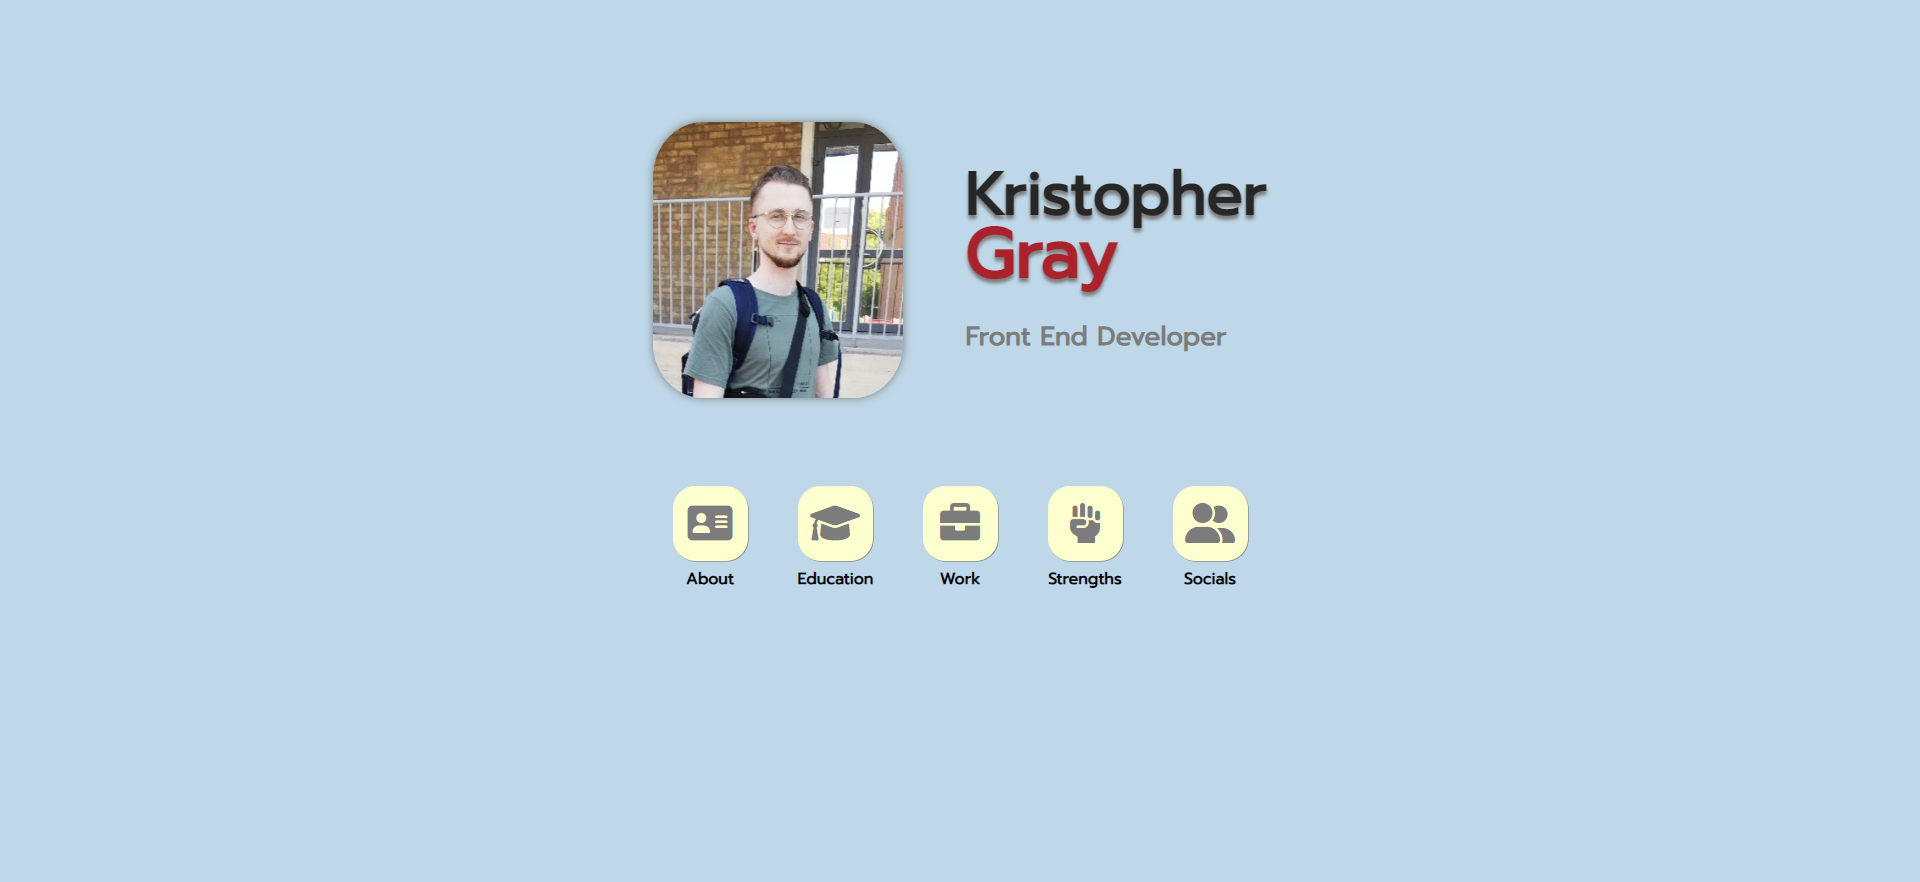
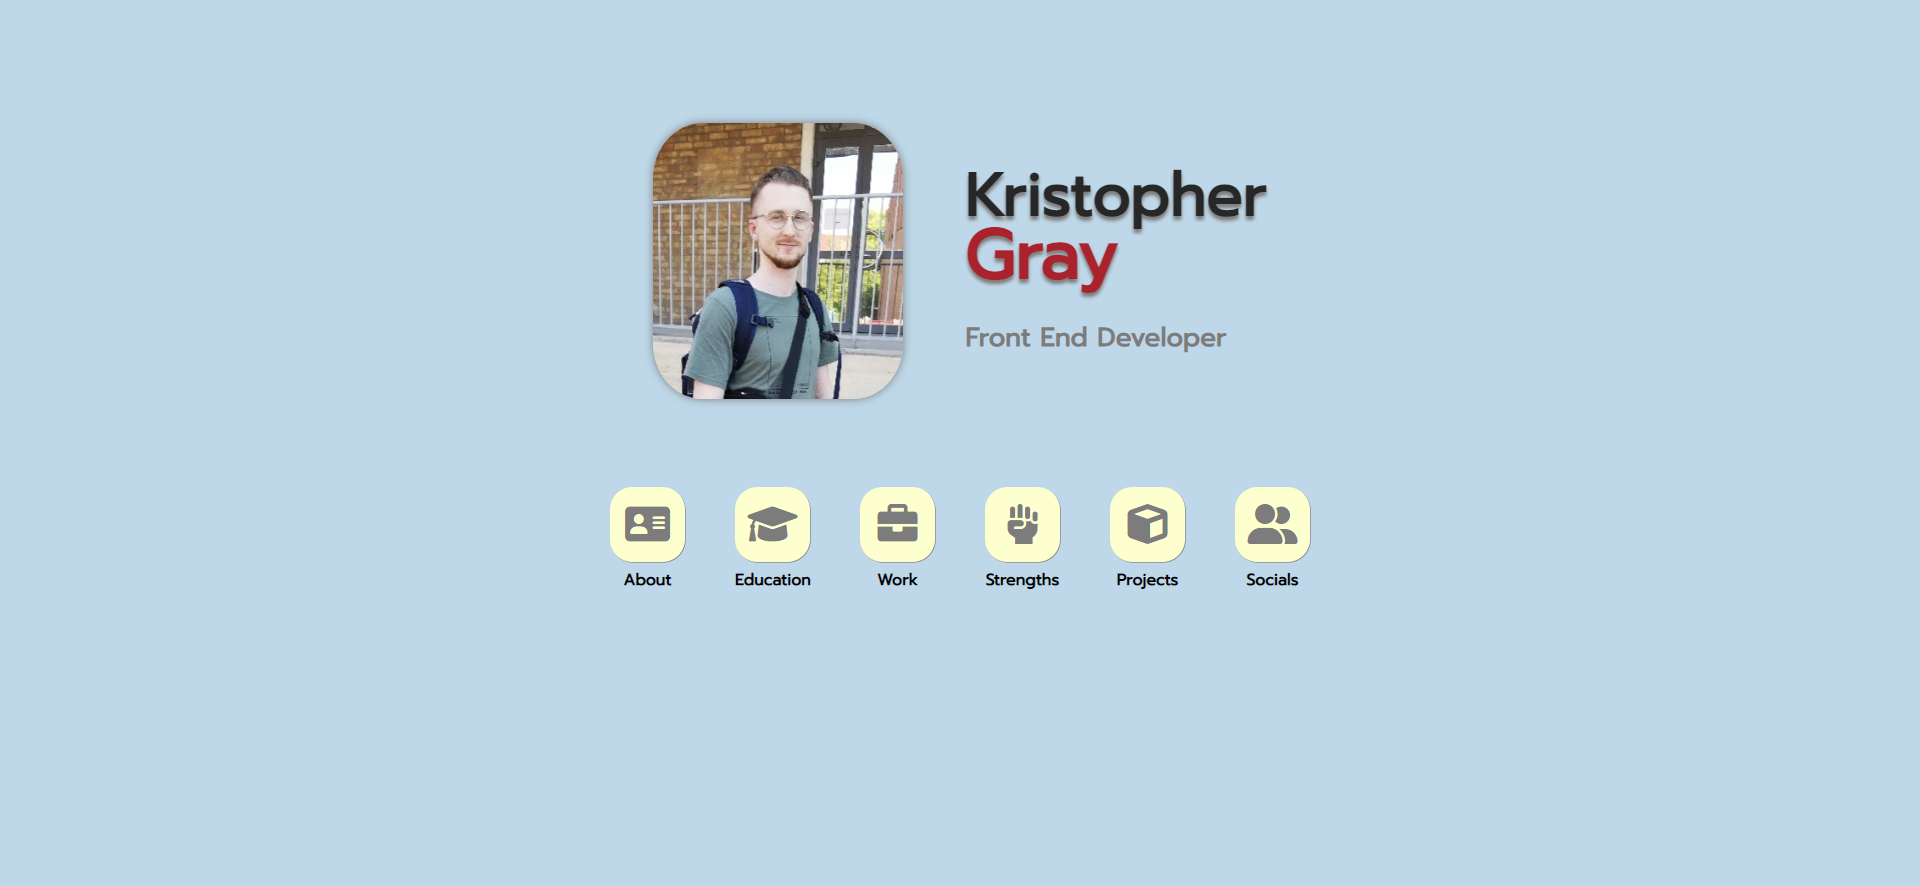
fixed slight app hover issue: shadow and margin are now on the same object

Changed region(s): [[0.3125, 0.551, 0.6875, 0.6735], [0.5, 0.3673, 0.625, 0.398]]

diff --git a/css/about.min.css b/css/about.min.css
@@ -1,1 +1,1 @@
-*{box-sizing:border-box;margin:0;padding:0}body{background-color:#b8d9eb;padding:30px 0;font-family:"Prompt",sans-serif}body a{text-decoration:none;color:#000}body li{list-style-type:none}.header{background-color:rgba(184,217,235,.9);width:100%;height:60px;top:0;left:0;position:absolute}.footer{background-color:rgba(184,217,235,.9);width:100%;height:40px;bottom:0;position:fixed;display:flex;justify-content:space-evenly}.footer .home-wrapper{height:100%;width:30%;display:flex;justify-content:center;align-items:center;cursor:pointer}.footer .home-wrapper:hover .home-button{height:40%}.footer .home-wrapper .home-button{background-color:#000;height:30%;width:95%;align-self:center;border-radius:20px;text-align:center;font-size:0}.app-list{padding:0}.app-list-item{display:flex;flex-direction:column;align-items:center;height:92.5px;margin:0 20px 7.5px 20px}.app-list-item:hover{margin:-5px 20px 12.5px 20px}.app-list-item:hover .app i{color:#5e5e5e}.app-list-item .app{height:60px;background-color:#fcffca;width:60px;border-radius:30%;box-shadow:.5px .5px #7c7c7c}.app-list-item .app:hover{box-shadow:.5px 3px #7c7c7c}.app-list-item .app i{display:flex;align-items:center;justify-content:center;width:100%;height:100%;font-size:2rem;color:#7c7c7c}.app-list-item h2{font-size:.8rem;text-align:center;padding-top:5px;height:20px}.header{position:fixed}.header .dropdown-button{background-color:rgba(184,217,235,0);color:#000;font-size:1.2rem;cursor:pointer;border:none;position:fixed;left:0;top:0;z-index:2;height:60px;width:100px}.main{width:100%;height:100%;padding:50px 5% 30px 5%;display:flex;flex-direction:column;align-items:center}.main .dropdown-content{z-index:1;display:none;height:100vh;background-color:rgba(184,217,235,.9);width:-moz-fit-content;width:fit-content;left:0;top:60px;position:fixed}.main .dropdown-content .app-list{height:calc(100% - 60px);overflow:auto;padding-top:5px}.main .dropdown-content .app-list-item:hover{margin:-3px 15px 10.5px 20px}.main .dropdown-content .app-list .app{box-shadow:-0.5px .5px #7c7c7c}.main .dropdown-content .app-list .app:hover{box-shadow:-3px .5px #7c7c7c}.main .show{display:block}.main .section{border-radius:50px;padding:50px 30px 10px 30px;line-height:30px;background-color:#fcffca;width:100%;max-width:1000px;margin-bottom:60px}.main .section:target{scroll-margin-top:60px}.main .section-content-list{border-top:solid 2px #000}.main .section-content-list h4{color:#7c7c7c}.main .section-content li{margin:50px 0}.main .section .titel{text-align:center;margin-bottom:40px}.main .section .app{background-color:#b8d9eb}.main #about-section{padding-bottom:30px}.main #about-section p,.main #about-section h3,.main #about-section ul{margin:0 30px}.main #about-section h3{margin-bottom:.7rem}.main #strengths-section .strengths-graph{border-top:solid 2px #000}.main #strengths-section .strengths-graph .strengths-graph-item{display:flex;flex-direction:column;margin:50px 0}.main #strengths-section .strengths-graph .strengths-graph-item .program{display:flex;margin-bottom:10px;min-width:30%}.main #strengths-section .strengths-graph .strengths-graph-item .program i{color:#7c7c7c;font-size:30px}.main #strengths-section .strengths-graph .strengths-graph-item .program h3{margin-left:10px}.main #strengths-section .strengths-graph .strengths-graph-item .program h4{color:#7c7c7c;font-size:25px}.main #strengths-section .strengths-graph .strengths-graph-item .graph-pillar{width:100%;height:15px;display:flex;justify-content:space-between}.main #strengths-section .strengths-graph .strengths-graph-item .graph-pillar .gps-full{background-color:#b8d9eb}.main #strengths-section .strengths-graph .strengths-graph-item .graph-pillar-section{border:1px solid #b8d9eb;border-radius:20px;height:100%;width:19%}.main #strengths-section .strengths-graph-top{padding:0}.main #project-section{padding-bottom:30px;display:flex;flex-direction:column;align-items:center}.main #project-section .projects{width:100%;display:flex;flex-direction:column;text-align:center;justify-content:center}.main #project-section .projects .project{margin:0 25px 25px}.main #project-section .projects .project h3{margin-bottom:.5rem}.main #project-section .projects .project a img{max-width:300px;width:100%;border-radius:5px}.main #social-section{padding-bottom:30px;margin:0}.main #social-section .social-list{display:flex;justify-content:space-evenly;margin-bottom:40px}.main #social-section .contact-list-item{display:flex;line-height:2rem;margin:30px 0}.main #social-section .contact-list-item i{font-size:18px;margin-top:7px}.main #social-section .contact-list-item-text{margin-left:1.5rem}.main #social-section .contact-list-item a p{text-decoration:underline}@media screen and (min-width: 425px){.main .section-content-list{padding:0 30px}.main #strengths-section .strengths-graph{padding:0 30px}}@media screen and (min-width: 600px){.main #social-section .social-content{display:flex;justify-content:space-evenly}.main #social-section .social-content .social-list{flex-direction:column;margin:0}}@media screen and (min-width: 768px){.main .section-content-list{display:flex;justify-content:space-between}.main .section-content-list li{width:300px}.main .section-content-list .li-right{padding-left:30px}.main .section-content-list .li-left{padding-right:30px}.main #strengths-section .strengths-graph .strengths-graph-item{display:flex;flex-direction:row;align-items:center;justify-content:space-between;height:50px}.main #strengths-section .strengths-graph .strengths-graph-item .program{margin:0}.main #strengths-section .strengths-graph .strengths-graph-item .graph-pillar{width:70%;align-self:right}.main #project-section .projects{flex-direction:row}}
+*{box-sizing:border-box;margin:0;padding:0}body{background-color:#b8d9eb;padding:30px 0;font-family:"Prompt",sans-serif}body a{text-decoration:none;color:#000}body li{list-style-type:none}.header{background-color:rgba(184,217,235,.9);width:100%;height:60px;top:0;left:0;position:absolute}.footer{background-color:rgba(184,217,235,.9);width:100%;height:40px;bottom:0;position:fixed;display:flex;justify-content:space-evenly}.footer .home-wrapper{height:100%;width:30%;display:flex;justify-content:center;align-items:center;cursor:pointer}.footer .home-wrapper:hover .home-button{height:40%}.footer .home-wrapper .home-button{background-color:#000;height:30%;width:95%;align-self:center;border-radius:20px;text-align:center;font-size:0}.app-list{padding:0}.app-list-item{display:flex;flex-direction:column;align-items:center;height:80px;margin:0 20px 20px 20px}.app-list-item:hover{margin:-5px 20px 25px 20px}.app-list-item:hover .app{box-shadow:.5px 3px #7c7c7c}.app-list-item:hover .app i{color:#5e5e5e}.app-list-item .app{height:60px;background-color:#fcffca;width:60px;border-radius:30%;box-shadow:.5px .5px #7c7c7c}.app-list-item .app i{display:flex;align-items:center;justify-content:center;width:100%;height:100%;font-size:2rem;color:#7c7c7c}.app-list-item h2{font-size:.8rem;text-align:center;padding-top:5px;height:20px}.header{position:fixed}.header .dropdown-button{background-color:rgba(184,217,235,0);color:#000;font-size:1.2rem;cursor:pointer;border:none;position:fixed;left:0;top:0;z-index:2;height:60px;width:100px}.main{width:100%;height:100%;padding:50px 5% 30px 5%;display:flex;flex-direction:column;align-items:center}.main .dropdown-content{z-index:1;display:none;height:100vh;background-color:rgba(184,217,235,.9);width:-moz-fit-content;width:fit-content;left:0;top:60px;position:fixed}.main .dropdown-content .app-list{height:calc(100% - 60px);overflow:auto;padding-top:5px}.main .dropdown-content .app-list-item:hover{margin:-3px 15px 23px 20px}.main .dropdown-content .app-list-item:hover .app{box-shadow:-3px .5px #7c7c7c}.main .dropdown-content .app-list .app{box-shadow:-0.5px .5px #7c7c7c}.main .show{display:block}.main .section{border-radius:50px;padding:50px 30px 10px 30px;line-height:30px;background-color:#fcffca;width:100%;max-width:1000px;margin-bottom:60px}.main .section:target{scroll-margin-top:60px}.main .section-content-list{border-top:solid 2px #000}.main .section-content-list h4{color:#7c7c7c}.main .section-content li{margin:50px 0}.main .section .titel{text-align:center;margin-bottom:40px}.main .section .app{background-color:#b8d9eb}.main #about-section{padding-bottom:30px}.main #about-section p,.main #about-section h3,.main #about-section ul{margin:0 30px}.main #about-section h3{margin-bottom:.7rem}.main #strengths-section .strengths-graph{border-top:solid 2px #000}.main #strengths-section .strengths-graph .strengths-graph-item{display:flex;flex-direction:column;margin:50px 0}.main #strengths-section .strengths-graph .strengths-graph-item .program{display:flex;margin-bottom:10px;min-width:30%}.main #strengths-section .strengths-graph .strengths-graph-item .program i{color:#7c7c7c;font-size:30px}.main #strengths-section .strengths-graph .strengths-graph-item .program h3{margin-left:10px}.main #strengths-section .strengths-graph .strengths-graph-item .program h4{color:#7c7c7c;font-size:25px}.main #strengths-section .strengths-graph .strengths-graph-item .graph-pillar{width:100%;height:15px;display:flex;justify-content:space-between}.main #strengths-section .strengths-graph .strengths-graph-item .graph-pillar .gps-full{background-color:#b8d9eb}.main #strengths-section .strengths-graph .strengths-graph-item .graph-pillar-section{border:1px solid #b8d9eb;border-radius:20px;height:100%;width:19%}.main #strengths-section .strengths-graph-top{padding:0}.main #project-section{padding-bottom:30px;display:flex;flex-direction:column;align-items:center}.main #project-section .projects{width:100%;display:flex;flex-direction:column;text-align:center;justify-content:center}.main #project-section .projects .project{margin:0 25px 25px}.main #project-section .projects .project h3{margin-bottom:.5rem}.main #project-section .projects .project a img{max-width:300px;width:100%;border-radius:5px}.main #social-section{padding-bottom:30px;margin:0}.main #social-section .social-list{display:flex;justify-content:space-evenly;margin-bottom:40px}.main #social-section .contact-list-item{display:flex;line-height:2rem;margin:30px 0}.main #social-section .contact-list-item i{font-size:18px;margin-top:7px}.main #social-section .contact-list-item-text{margin-left:1.5rem}.main #social-section .contact-list-item a p{text-decoration:underline}@media screen and (min-width: 425px){.main .section-content-list{padding:0 30px}.main #strengths-section .strengths-graph{padding:0 30px}}@media screen and (min-width: 600px){.main #social-section .social-content{display:flex;justify-content:space-evenly}.main #social-section .social-content .social-list{flex-direction:column;margin:0}}@media screen and (min-width: 768px){.main .section-content-list{display:flex;justify-content:space-between}.main .section-content-list li{width:300px}.main .section-content-list .li-right{padding-left:30px}.main .section-content-list .li-left{padding-right:30px}.main #strengths-section .strengths-graph .strengths-graph-item{display:flex;flex-direction:row;align-items:center;justify-content:space-between;height:50px}.main #strengths-section .strengths-graph .strengths-graph-item .program{margin:0}.main #strengths-section .strengths-graph .strengths-graph-item .graph-pillar{width:70%;align-self:right}.main #project-section .projects{flex-direction:row}}

diff --git a/css/style.min.css b/css/style.min.css
@@ -1,1 +1,1 @@
-*{box-sizing:border-box;margin:0;padding:0}body{background-color:#b8d9eb;padding:30px 0;font-family:"Prompt",sans-serif}body a{text-decoration:none;color:#000}body li{list-style-type:none}.header{background-color:rgba(184,217,235,.9);width:100%;height:60px;top:0;left:0;position:absolute}.footer{background-color:rgba(184,217,235,.9);width:100%;height:40px;bottom:0;position:fixed;display:flex;justify-content:space-evenly}.footer .home-wrapper{height:100%;width:30%;display:flex;justify-content:center;align-items:center;cursor:pointer}.footer .home-wrapper:hover .home-button{height:40%}.footer .home-wrapper .home-button{background-color:#000;height:30%;width:95%;align-self:center;border-radius:20px;text-align:center;font-size:0}.app-list{padding:0}.app-list-item{display:flex;flex-direction:column;align-items:center;height:92.5px;margin:0 20px 7.5px 20px}.app-list-item:hover{margin:-5px 20px 12.5px 20px}.app-list-item:hover .app i{color:#5e5e5e}.app-list-item .app{height:60px;background-color:#fcffca;width:60px;border-radius:30%;box-shadow:.5px .5px #7c7c7c}.app-list-item .app:hover{box-shadow:.5px 3px #7c7c7c}.app-list-item .app i{display:flex;align-items:center;justify-content:center;width:100%;height:100%;font-size:2rem;color:#7c7c7c}.app-list-item h2{font-size:.8rem;text-align:center;padding-top:5px;height:20px}.main{width:100%;height:100%;display:flex;flex-direction:column;align-items:center}.main .banner{width:min-content;display:flex;flex-direction:column;align-items:center;justify-content:center;text-align:center;margin:70px 0}.main .banner img{width:200px;border-radius:20%;margin-bottom:20px;box-shadow:0 0 7px #7c7c7c}.main .banner .titles h1{font-size:3rem;line-height:3rem;color:#272727;text-shadow:0 3px 3px #7c7c7c}.main .banner .titles h1 .last-name{font-size:3.5rem;color:#ba0025}.main .banner .titles h2{font-size:1.3rem;color:#7c7c7c;margin-top:1.5rem}.main .app-list{display:flex;flex-wrap:wrap;max-width:201px;margin-bottom:70px}@media screen and (min-width: 300px){.main .app-list{max-width:301px}}@media screen and (min-width: 450px){.main .app-list{max-width:401px}}@media screen and (min-width: 560px){.main .app-list{max-width:501px}}@media screen and (min-width: 675px){.main .banner{flex-direction:row;text-align:start}.main .banner img{margin:0 50px 0 0}.main .app-list{max-width:100%}}
+*{box-sizing:border-box;margin:0;padding:0}body{background-color:#b8d9eb;padding:30px 0;font-family:"Prompt",sans-serif}body a{text-decoration:none;color:#000}body li{list-style-type:none}.header{background-color:rgba(184,217,235,.9);width:100%;height:60px;top:0;left:0;position:absolute}.footer{background-color:rgba(184,217,235,.9);width:100%;height:40px;bottom:0;position:fixed;display:flex;justify-content:space-evenly}.footer .home-wrapper{height:100%;width:30%;display:flex;justify-content:center;align-items:center;cursor:pointer}.footer .home-wrapper:hover .home-button{height:40%}.footer .home-wrapper .home-button{background-color:#000;height:30%;width:95%;align-self:center;border-radius:20px;text-align:center;font-size:0}.app-list{padding:0}.app-list-item{display:flex;flex-direction:column;align-items:center;height:80px;margin:0 20px 20px 20px}.app-list-item:hover{margin:-5px 20px 25px 20px}.app-list-item:hover .app{box-shadow:.5px 3px #7c7c7c}.app-list-item:hover .app i{color:#5e5e5e}.app-list-item .app{height:60px;background-color:#fcffca;width:60px;border-radius:30%;box-shadow:.5px .5px #7c7c7c}.app-list-item .app i{display:flex;align-items:center;justify-content:center;width:100%;height:100%;font-size:2rem;color:#7c7c7c}.app-list-item h2{font-size:.8rem;text-align:center;padding-top:5px;height:20px}.main{width:100%;height:100%;display:flex;flex-direction:column;align-items:center}.main .banner{width:min-content;display:flex;flex-direction:column;align-items:center;justify-content:center;text-align:center;margin:70px 0}.main .banner img{width:200px;border-radius:20%;margin-bottom:20px;box-shadow:0 0 7px #7c7c7c}.main .banner .titles h1{font-size:3rem;line-height:3rem;color:#272727;text-shadow:0 3px 3px #7c7c7c}.main .banner .titles h1 .last-name{font-size:3.5rem;color:#ba0025}.main .banner .titles h2{font-size:1.3rem;color:#7c7c7c;margin-top:1.5rem}.main .app-list{display:flex;flex-wrap:wrap;max-width:201px;margin-bottom:70px}@media screen and (min-width: 300px){.main .app-list{max-width:301px}}@media screen and (min-width: 450px){.main .app-list{max-width:401px}}@media screen and (min-width: 560px){.main .app-list{max-width:501px}}@media screen and (min-width: 675px){.main .banner{flex-direction:row;text-align:start}.main .banner img{margin:0 50px 0 0}.main .app-list{max-width:100%}}

diff --git a/index.html b/index.html
@@ -1,21 +1,27 @@
 <!DOCTYPE html>
 <html lang="en">
 <head>
-    <link rel="stylesheet" href="css/style.min.css">
-    <link rel="stylesheet" href="https://cdnjs.cloudflare.com/ajax/libs/font-awesome/6.1.2/css/all.min.css" integrity="sha512-1sCRPdkRXhBV2PBLUdRb4tMg1w2YPf37qatUFeS7zlBy7jJI8Lf4VHwWfZZfpXtYSLy85pkm9GaYVYMfw5BC1A==" crossorigin="anonymous" referrerpolicy="no-referrer">
-    <link rel="preconnect" href="https://fonts.googleapis.com">
-    <link rel="preconnect" href="https://fonts.gstatic.com" crossorigin>
-    <link href="https://fonts.googleapis.com/css2?family=Prompt&display=swap" rel="stylesheet">
-    <link rel="icon" href="images/pepe-hype-32w.jpg">
-    <meta http-equiv="X-UA-Compatible" content="IE=edge">
-    <meta name="viewport" content="width=device-width, initial-scale=1.0">
-    <meta charset="UTF-8">
-    <meta name="description" content="Kristopher Gray has an amazing CV with a cool layout, check it out.">
-    <meta name="titel" property="og:titel" content="Kristopher's Portfolio Site">
-    <meta name="type" property="og:type" content="website">
-    <meta name="image" property="og:image" content="">
-    <meta name="url" property="og:url" content="">
-    <title>Kristopher Gray</title>
+	<link rel="stylesheet" href="css/style.min.css" />
+	<link
+	rel="stylesheet"
+	href="https://cdnjs.cloudflare.com/ajax/libs/font-awesome/6.1.2/css/all.min.css"
+	integrity="sha512-1sCRPdkRXhBV2PBLUdRb4tMg1w2YPf37qatUFeS7zlBy7jJI8Lf4VHwWfZZfpXtYSLy85pkm9GaYVYMfw5BC1A=="
+	crossorigin="anonymous"
+	referrerpolicy="no-referrer"
+	/>
+	<link rel="preconnect" href="https://fonts.googleapis.com" />
+	<link rel="preconnect" href="https://fonts.gstatic.com" crossorigin />
+	<link href="https://fonts.googleapis.com/css2?family=Prompt&display=swap" rel="stylesheet" />
+	<meta http-equiv="X-UA-Compatible" content="IE=edge" />
+	<meta name="viewport" content="width=device-width, initial-scale=1.0" />
+	<meta charset="UTF-8" />
+	<meta name="description" content="Kristopher Gray has an amazing CV with a cool layout, check it out." />
+	<meta name="titel" property="og:titel" content="Portfolio Website" />
+	<meta name="type" property="og:type" content="website" />
+	<meta name="image" property="og:image" content="images/og-image.png" />
+	<meta name="url" property="og:url" content="https://kristophergray.com/" />
+	<meta name="description" property="og:description" content="Browse Kristopher's amazing portfolio and get inspired!" />
+	<title>Kristopher Gray</title>
 </head>
 <body>
     <main class="main">

diff --git a/scss/_apps.scss b/scss/_apps.scss
@@ -5,13 +5,14 @@
 		display: flex;
 		flex-direction: column;
 		align-items: center;
-		height: 92.5px;
-		margin: 0 20px 7.5px 20px;
+		height: 80px;
+		margin: 0 20px 20px 20px;
 
 		&:hover {
-			margin: calc(0px - 5px) 20px calc(7.5px + 5px) 20px;
+			margin: calc(0px - 5px) 20px calc(20px + 5px) 20px;
 
 			.app {
+				box-shadow: 0.5px 3px $text-color;
 				i {
 					color: rgb(94, 94, 94);
 				}
@@ -24,10 +25,6 @@
 			width: 60px;
 			border-radius: 30%;
 			box-shadow: 0.5px 0.5px $text-color;
-
-			&:hover {
-				box-shadow: 0.5px 3px $text-color;
-			}
 
 			i {
 				display: flex;

diff --git a/scss/about.scss b/scss/about.scss
@@ -47,16 +47,16 @@
 
 			&-item {
 				&:hover {
-					margin: calc(0px - 3px) 15px calc(7.5px + 3px) 20px;
+					margin: calc(0px - 3px) 15px calc(20px + 3px) 20px;
+
+					.app {
+						box-shadow: -3px 0.5px $text-color;
+					}
 				}
 			}
 
 			.app {
 				box-shadow: -0.5px 0.5px $text-color;
-
-				&:hover {
-					box-shadow: -3px 0.5px $text-color;
-				}
 			}
 		}
 	}
